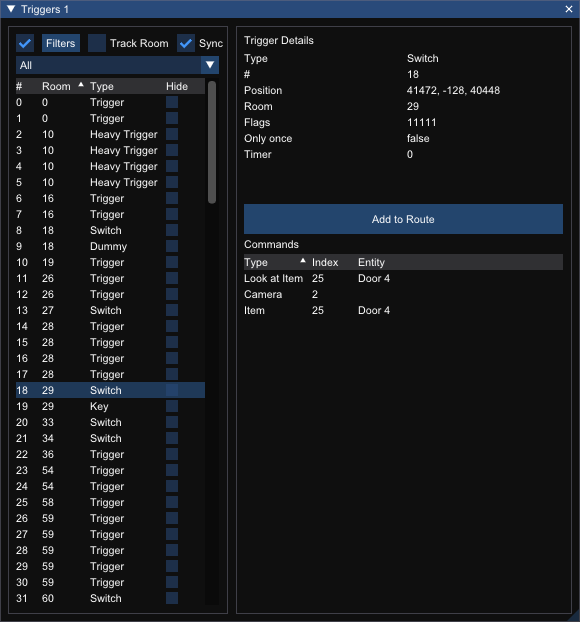
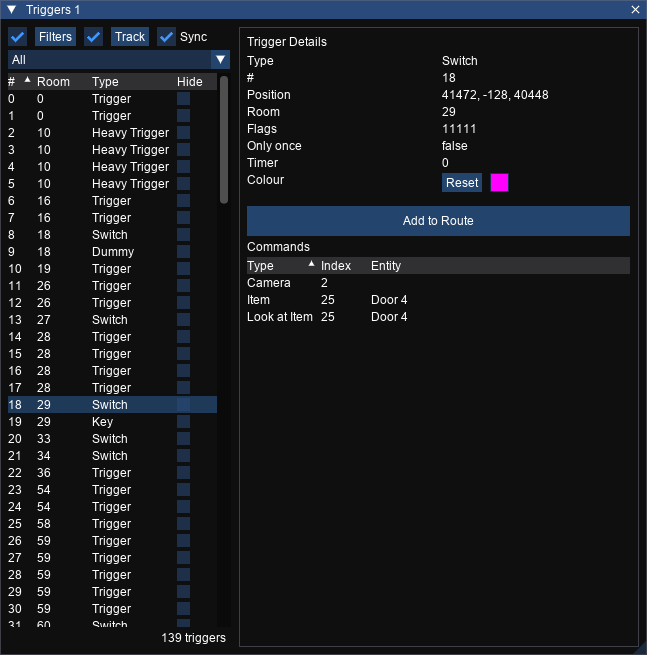
More doc updates

Changed region(s): [[0.0, 0.0, 0.9931, 1.0], [0.9621, 0.0, 0.9931, 0.0305], [0.5276, 0.4887, 0.5586, 0.5193]]

diff --git a/doc/staticswindow.md b/doc/staticswindow.md
@@ -1,0 +1,37 @@
+# Statics
+_Shortcut: Ctrl+S_
+
+Shows the list of statics that exist in the current level and allows you to filter, sort and inspect them.
+
+![Statics Window](statics.png)
+
+## Options
+
+Input|Action
+---|------
+Filters | Open the [filters](filters.md) editor. The checkbox toggles whether configured filters are applied.
+Track Room          | Whether to show the statics that are in the currently selected room. Clicking the button will show the expanded track menu where you can choose whether rooms are tracked.
+Sync | Whether the static selected in the window will be synced with the static selected in the view (bidirectional)
+
+## Statics List
+
+Column | Meaning
+---|---
+\# | The statics number
+Room | The number of the room that the static is in
+ID | The mesh ID of the static
+Type | The type of the static
+Hide | Whether to hide this static in the viewer
+
+## Static Details
+
+Stat | Meaning
+--- | ---
+\# | The static number
+Position | The position of the static in world space
+ID | Mesh ID of the static
+Room | The number of the room that the static is in
+Type | The type of the trigger
+Rotation | Rotation of the static mesh in degrees
+Flags | Activation mask
+Breakable | Whether this static can be broken (eg jars)

diff --git a/doc/viewer.md b/doc/viewer.md
@@ -12,17 +12,20 @@ TR1-3 | TR4+
 
 Option|Action
 ---|------
-Highlight           | Highlight the currently selected room
+Items               | Toggle item visibility
 Triggers            | Toggle trigger visibility
-Geometry            | Toggle geometry mode
+Lights              | Toggle lights visibility
 Water               | Toggle water in water rooms
+Bounds              | Show static mesh bounding boxes
+Highlight           | Highlight the currently selected room
 Rooms               | Toggle rendering of room geometry
+Camera/Sink         | Toggle rendering of cameras and sinks
 Depth               | Toggle depth mode. This will show the currently selected depth of neighbours of the current room.
 Depth Selector      | Choose the depth of neighbours to show
 Wireframe           | Enable wireframe rendering mode
-Bounds              | Show static mesh bounding boxes
-Lights              | Toggle lights visibility
+Geometry            | Toggle geometry mode
 Lighting            | Toggle using room lighting
+Notes               | Toggle notes visibility
 Flip                | Toggle the level flipmap (if present in the level). In TR4+ this will be a flipmap group selector.
 
 ## Room Navigator

diff --git a/doc/triggerswindow.md b/doc/triggerswindow.md
@@ -10,7 +10,7 @@ Shows the list of triggers that exist in the current level and allows you to fil
 Input|Action
 ---|------
 Filters | Open the [filters](filters.md) editor. The checkbox toggles whether configured filters are applied.
-Track Room          | Whether to show the triggers that are in the currently selected room
+Track Room          | Whether to show the triggers that are in the currently selected room. Clicking the button will show the expanded track menu where you can choose whether rooms are tracked.
 Sync | Whether the trigger selected in the window will be synced with the trigger selected in the view (bidirectional)
 
 ## Triggers List
@@ -33,6 +33,7 @@ Room | The number of the room that the trigger is in
 Flags | Activation mask
 Only Once | Whether this trigger can only be triggered once
 Timer | Used to time trigger activation/deactivation
+Colour | The colour of the trigger in the 3D view. Can be reset with the `Reset` button.
 
 ## Add To Route
 Clicking the `Add to Route` button will insert this trigger at the current position in the route.

diff --git a/doc/textureswindow.md b/doc/textureswindow.md
@@ -1,2 +1,13 @@
 # Textures Window
 
+Shows the texture tiles in the level.
+
+![Textures Window](textures.png)
+
+## Transparency
+
+Enable or disable transparency on the textures in the tile.
+
+## Tile
+
+Select a different tile from the textures in the level.
